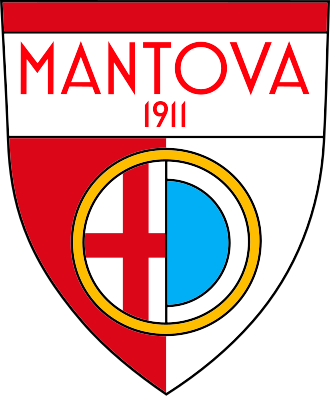
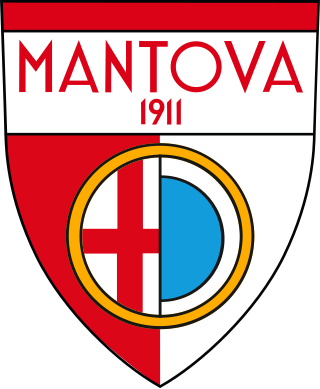
fix: Hebrew names that read like Hebrew, and the last of the crests
Transliteration was writing an aleph for every vowel, so Israeli players came
out as "אלאד מאדמון" instead of "אלעד מדמון". Interior vowels are now implied
the way Hebrew actually spells a foreign name, the endings that matter are
handled (tz to a final tzadi, -owski to -ובסקי), and a short list of names
everyone already knows how to spell wins over letter-by-letter guessing.

Crest sourcing learnt three things: the database spells some countries more
than one way ("The Netherlands"), a handful of clubs are filed under a name
nothing like ours (Stade Rennais is "Rennes"), and a badge is not always
square - a wordmark can be twice as wide as it is tall. PSV, AZ, Rennes,
Montpellier and Heerenveen came back with those fixes.

An identity check against the database - same sport, same country, same club -
found zero wrong badges across the 349 it could verify.

diff --git a/packages/data/src/fetch-crests.ts b/packages/data/src/fetch-crests.ts
@@ -33,7 +33,32 @@ const ALL = process.argv.includes('--all');
 /** The free, documented test key. Fine for a few hundred lookups. */
 const SPORTSDB = 'https://www.thesportsdb.com/api/v1/json/3';
 
-/** Our three-letter codes to the country names TheSportsDB uses. */
+/**
+ * Our three-letter codes to the country names TheSportsDB uses. Some countries are
+ * spelled more than one way in that database ("Netherlands" and "The Netherlands"),
+ * and a country mismatch is what rejects an otherwise perfect match, so all the
+ * spellings we have seen are listed.
+ */
+const COUNTRY_ALTS: Record<string, string[]> = {
+  NED: ['Netherlands', 'The Netherlands', 'Holland'],
+  ENG: ['England'],
+  TUR: ['Turkey', 'Türkiye'],
+  GRE: ['Greece'],
+  GER: ['Germany'],
+};
+
+/** Clubs whose database name is nothing like ours; searching for it directly works. */
+const SEARCH_ALIASES: Record<string, string> = {
+  fra_stade_rennais_fc_1901: 'Rennes',
+  fra_montpellier_hsc: 'Montpellier',
+  ned_psv: 'PSV Eindhoven',
+  ned_az: 'AZ Alkmaar',
+  ned_sc_heerenveen: 'Heerenveen',
+  eng_nottingham_forest_fc: 'Nottingham Forest',
+  gre_ae_kifisias: 'Kifisia',
+  isr_ironi_nesher: 'Hapoel Nesher',
+};
+
 const COUNTRY: Record<string, string> = {
   ENG: 'England', SCO: 'Scotland', WAL: 'Wales', IRL: 'Ireland',
   ESP: 'Spain', ITA: 'Italy', GER: 'Germany', FRA: 'France', POR: 'Portugal',
@@ -112,9 +137,11 @@ function similarity(a: string, b: string): number {
 interface Found { url: string; source: string; ref: string }
 
 /** Primary source: a football database that knows the sport and the country. */
-async function fromSportsDb(club: { name: string; shortName?: string; country: string }): Promise<Found | null> {
+async function fromSportsDb(club: { id?: string; name: string; shortName?: string; country: string }): Promise<Found | null> {
   const wanted = COUNTRY[club.country];
-  const queries = [club.name, club.shortName].filter((q): q is string => Boolean(q));
+  const accepted = new Set([...(COUNTRY_ALTS[club.country] ?? []), ...(wanted ? [wanted] : [])]);
+  const alias = club.id ? SEARCH_ALIASES[club.id] : undefined;
+  const queries = [alias, club.name, club.shortName].filter((q): q is string => Boolean(q));
 
   for (const query of queries) {
     const data = await json(`${SPORTSDB}/searchteams.php?t=${encodeURIComponent(query)}`);
@@ -132,9 +159,12 @@ async function fromSportsDb(club: { name: string; shortName?: string; country: s
         similarity(team.strTeamShort ?? '', club.shortName ?? club.name),
       );
       // A country match is what stops "Boavista" landing on the Brazilian side.
-      const countryScore = wanted && team.strCountry === wanted ? 1 : wanted ? -0.6 : 0;
-      const score = alt + countryScore;
-      if (alt < 0.5) continue;
+      const countryOk = accepted.size === 0 || accepted.has(team.strCountry);
+      const countryScore = countryOk ? 1 : -0.6;
+      // An alias is a deliberate hand-match, so the name does not have to look alike.
+      const nameScore = alias && query === alias ? Math.max(alt, 0.8) : alt;
+      const score = nameScore + countryScore;
+      if (nameScore < 0.5) continue;
       if (!best || score > best.score) best = { badge, id: team.idTeam, score };
     }
 
@@ -189,6 +219,22 @@ async function fromWikipedia(club: { name: string; nameHe?: string }): Promise<F
       if (url) return { url, source: `wikipedia:${attempt.lang}`, ref: candidate.name };
     }
   }
+  // Last resort: the article's lead image, but only when the file is *named* like a
+  // badge. Nottingham Forest's crest lives there and nowhere else we can reach, while
+  // a stadium photo is called something else entirely, so the name is the filter.
+  for (const attempt of attempts) {
+    const data = await json(
+      `https://${attempt.lang}.wikipedia.org/api/rest_v1/page/summary/${encodeURIComponent(attempt.title)}`,
+    );
+    if (!data || data.type === 'disambiguation') continue;
+    const source: string | undefined = data.originalimage?.source ?? data.thumbnail?.source;
+    if (!source) continue;
+    const file = decodeURIComponent(source.split('?')[0]!.split('/').pop() ?? '');
+    if (!/(logo|crest|badge|emblem|escudo|stemma|wappen)/i.test(file)) continue;
+    // Ask for a bigger render than the 330px thumbnail the summary hands back.
+    return { url: source.split('?')[0]!.replace(/\/\d+px-/, '/256px-'), source: `wikipedia:${attempt.lang}`, ref: file };
+  }
+
   return null;
 }
 
@@ -199,7 +245,9 @@ function looksLikeCrest(bytes: Buffer): boolean {
   const height = bytes.readUInt32BE(20);
   if (width < 40 || height < 40) return false;
   const ratio = width / height;
-  return ratio > 0.5 && ratio < 1.8;
+  // Most badges are square-ish, but plenty of clubs use a wordmark that is wider than
+  // it is tall. A photograph is wider still, so the line sits at 2.2.
+  return ratio > 0.45 && ratio < 2.2;
 }
 
 async function main(): Promise<void> {
@@ -222,7 +270,7 @@ async function main(): Promise<void> {
   for (const club of todo) {
     const record: ClubAsset = index[club.id] ?? { clubId: club.id };
     const hit =
-      (await fromSportsDb({ name: club.name, shortName: club.shortName, country: club.country })) ??
+      (await fromSportsDb({ id: club.id, name: club.name, shortName: club.shortName, country: club.country })) ??
       (await fromWikipedia({ name: club.name, nameHe: club.nameHe ?? record.nameHe }));
 
     if (hit) {

diff --git a/packages/app/src/lib/transliterate.ts b/packages/app/src/lib/transliterate.ts
@@ -46,7 +46,73 @@ const RULES: [RegExp, string][] = [
   [/^oa/i, 'ו'],
   [/^ue/i, 'ו'],
   [/^ui/i, 'וי'],
+  // Endings and clusters that a Hebrew speaker writes a particular way.
+  [/^tz$/i, 'ץ'],
+  [/^tz/i, 'צ'],
+  [/^ts$/i, 'ץ'],
+  [/^cz/i, "צ'"],
+  [/^sz/i, 'ש'],
+  [/^wski$/i, 'בסקי'],
+  [/^owski$/i, 'ובסקי'],
+  [/^aard/i, 'ארד'],
+  [/^aa/i, 'א'],
+  [/^ee$/i, 'י'],
+  [/^ck$/i, 'ק'],
+  [/^gn/i, 'ני'],
+  [/^kh/i, 'ח'],
 ];
+
+/**
+ * Names that every Hebrew speaker already knows how to spell, where letter-by-letter
+ * transliteration gets it wrong. Kept short on purpose: it is a correction list for
+ * the common cases, not a dictionary.
+ */
+const KNOWN: Record<string, string> = {
+  peretz: 'פרץ',
+  perez: 'פרס',
+  cohen: 'כהן',
+  levy: 'לוי',
+  levi: 'לוי',
+  elad: 'אלעד',
+  madmon: 'מדמון',
+  dor: 'דור',
+  yosef: 'יוסף',
+  david: 'דוד',
+  moshe: 'משה',
+  shlomo: 'שלמה',
+  itay: 'איתי',
+  omri: 'עומרי',
+  eli: 'אלי',
+  gal: 'גל',
+  ofir: 'אופיר',
+  idan: 'עידן',
+  ilay: 'עילאי',
+  amir: 'אמיר',
+  yarden: 'ירדן',
+  raz: 'רז',
+  liel: 'ליאל',
+  shon: 'שון',
+  bar: 'בר',
+  ben: 'בן',
+  lewandowski: 'לבנדובסקי',
+  odegaard: 'אדגור',
+  mbappe: 'מבאפה',
+  haaland: 'הלאנד',
+  bellingham: "בלינגהאם",
+  vinicius: "ויניסיוס",
+  rodrygo: 'רודריגו',
+  messi: 'מסי',
+  ronaldo: 'רונאלדו',
+  neymar: 'ניימאר',
+  salah: 'סלאח',
+  kane: 'קיין',
+  saka: 'סאקה',
+  rice: 'רייס',
+  saliba: 'סאליבה',
+  raya: 'ראיה',
+  foden: 'פודן',
+  maddison: 'מדיסון',
+};
 
 const SINGLE: Record<string, string> = {
   a: 'א',
@@ -81,6 +147,8 @@ const VOWELS = new Set(['a', 'e', 'i', 'o', 'u']);
 
 function transliterateWord(word: string): string {
   const lower = word.toLowerCase();
+  const known = KNOWN[lower.replace(/[^a-z]/g, '')];
+  if (known) return known;
   let out = '';
   let i = 0;
 
@@ -112,7 +180,12 @@ function transliterateWord(word: string): string {
     if (VOWELS.has(ch)) {
       const atStart = i === 0;
       const atEnd = i === lower.length - 1;
-      if (ch === 'a') out += atStart ? 'א' : atEnd ? 'ה' : 'א';
+      if (ch === 'a') {
+        // Only the first and last vowel get a letter; the middle ones are implied,
+        // which is how Hebrew actually spells a foreign name.
+        const previous = out.at(-1);
+        out += atStart ? 'א' : atEnd ? 'ה' : previous === 'א' ? '' : 'א';
+      }
       else if (ch === 'e') out += atStart ? 'א' : '';
       else if (ch === 'i') out += 'י';
       else if (ch === 'o') out += 'ו';

diff --git a/packages/app/src/i18n/he.ts b/packages/app/src/i18n/he.ts
@@ -1222,4 +1222,11 @@ export const he: Record<string, string> = {
 
 
   'national.tournamentLine': '{caps} משחקים · {goals} שערים · ציון {rating}',
+
+'match.importance.rival': 'משחק יריבות',
+  'match.importance.titleDecider': 'קרב אליפות',
+  'match.importance.relegationSixPointer': 'קרב הישרדות',
+  'match.importance.europeanNight': 'ערב אירופי',
+  'match.importance.debut': 'בכורה',
+  'match.importance.firstProMatch': 'משחק מקצועני ראשון',
 };

diff --git a/packages/app/src/i18n/en.ts b/packages/app/src/i18n/en.ts
@@ -1220,4 +1220,11 @@ export const en: Record<string, string> = {
 
 
   'national.tournamentLine': '{caps} matches · {goals} goals · rating {rating}',
+
+'match.importance.rival': 'Rivalry',
+  'match.importance.titleDecider': 'Title decider',
+  'match.importance.relegationSixPointer': 'Relegation six-pointer',
+  'match.importance.europeanNight': 'European night',
+  'match.importance.debut': 'Debut',
+  'match.importance.firstProMatch': 'First professional match',
 };

diff --git a/README.md b/README.md
@@ -51,7 +51,12 @@ npx tsx packages/data/src/fetch-squads.ts         # שחקנים אמיתיים 
 npx tsx packages/data/src/fetch-club-assets.ts    # שמות בעברית מוויקיפדיה
 npx tsx packages/data/src/build-pack.ts           # בונה את pack.json
 npx tsx packages/data/src/copy-assets.ts          # מעתיק סמלים ל-app/public
+npx tsx packages/data/src/verify-crests.ts        # מוודא שכל סמל שייך באמת לקבוצה
+npx tsx packages/data/src/crest-sheet.ts          # עמוד בדיקה: /crests.html
 ```
+
+אם האינדקס והקבצים יצאו מסנכרון (למשל שתי הורדות רצו במקביל):
+`npx tsx packages/data/src/repair-assets.ts` בונה את האינדקס מחדש מהקבצים שעל הדיסק.
 
 ### תמונות רקע
 
